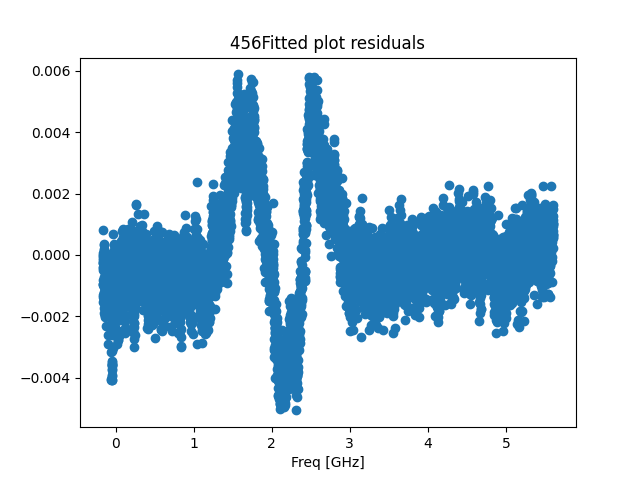
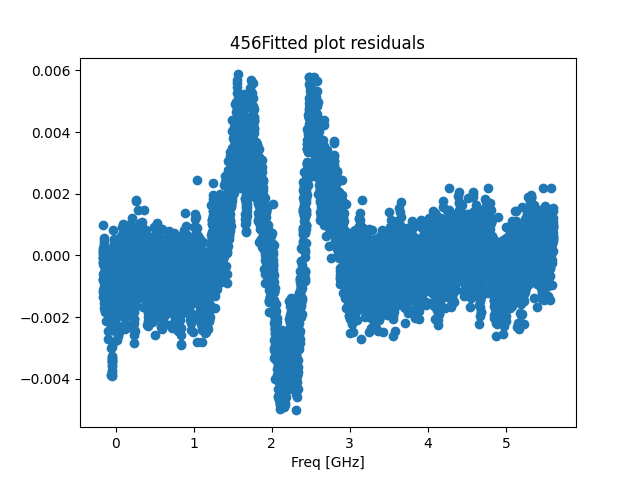
stilll testing

diff --git a/Interactive.py b/Interactive.py
@@ -50,7 +50,7 @@ class analysis:
                 Fine = list(map(int,file.readline().split(',')))
                 file.close()
             else:
-                Fine = [0,0]
+                Fine = [0,0] 
             if os.path.exists(self.folderpath+r'\beatnote_det_f.csv'):
                 file = open(self.folderpath+r'\beatnote_det_f.csv','r')
                 temp2 = list(map(float,file.readline().strip().split(',')))

diff --git a/TestingDataType.py b/TestingDataType.py
@@ -882,7 +882,7 @@ class data:
                                                                             voigt(w,coeff[1],mv+self.hypsplit[1],np.sqrt(T+273.15)*k1*self.abs_freq[1],gamma)+
                                                                             voigt(w,coeff[2],mv+self.hypsplit[2],np.sqrt(T+273.15)*k1*self.abs_freq[2],gamma))) + base
                 mod = lm.Model(fun1,['w'],['a','p0','h1','h2','mv','T','gamma','base'])
-                result = mod.fit(self.scaledT[self.beat_rng[0]:self.beat_rng[1]],params=params,w=plotting_freq,method='ampgo')
+                result = mod.fit(self.scaledT[self.beat_rng[0]:self.beat_rng[1]],params=params,w=plotting_freq,method='basinhopping')
             else:
                 # params['gamma'].set(vary=True)
                 params['gamma'].set(value=Gamma)